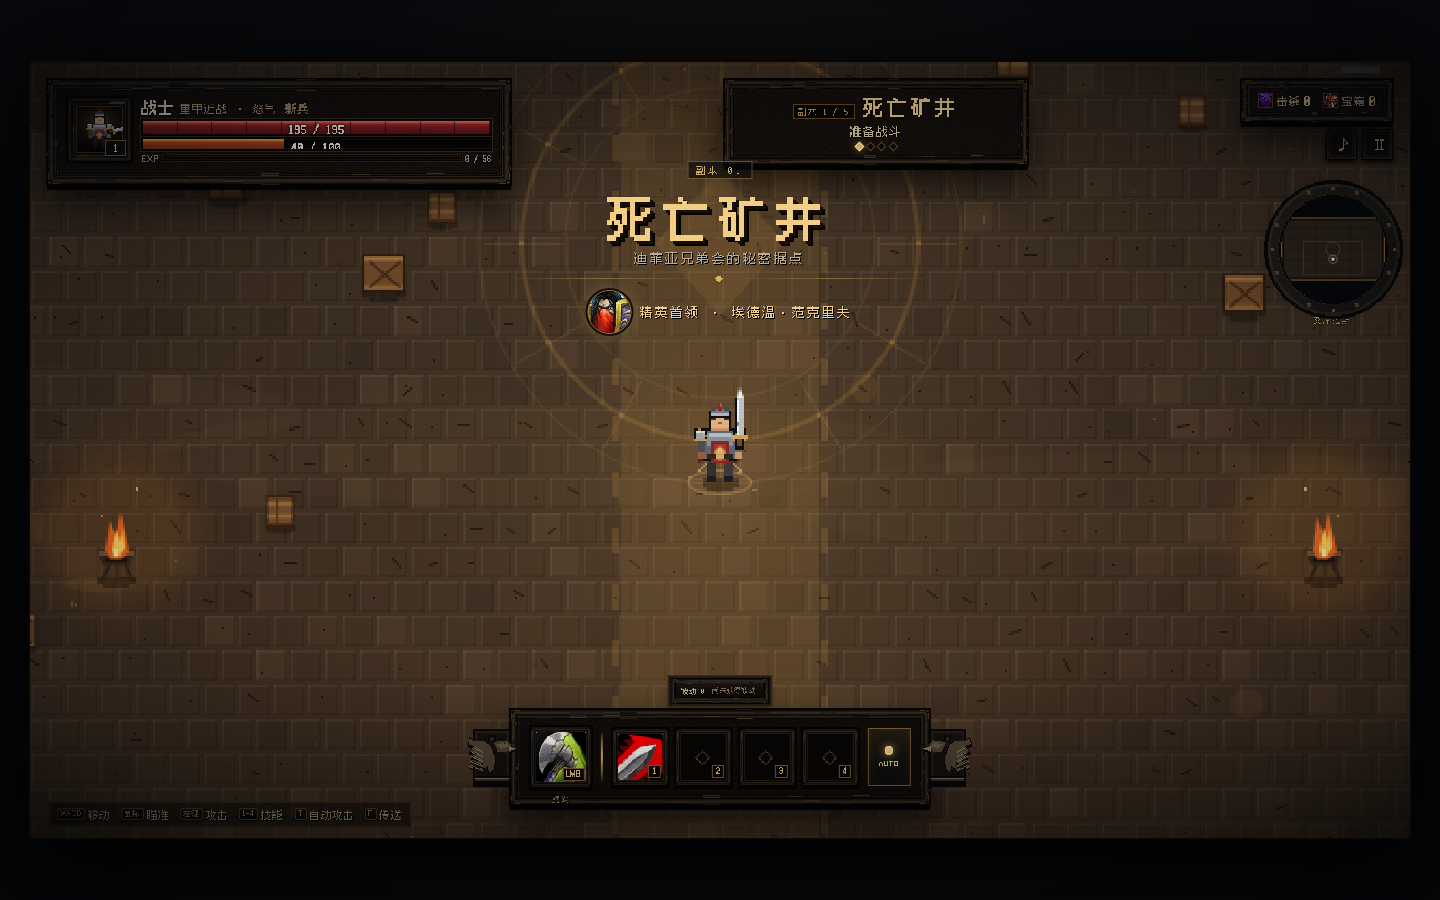
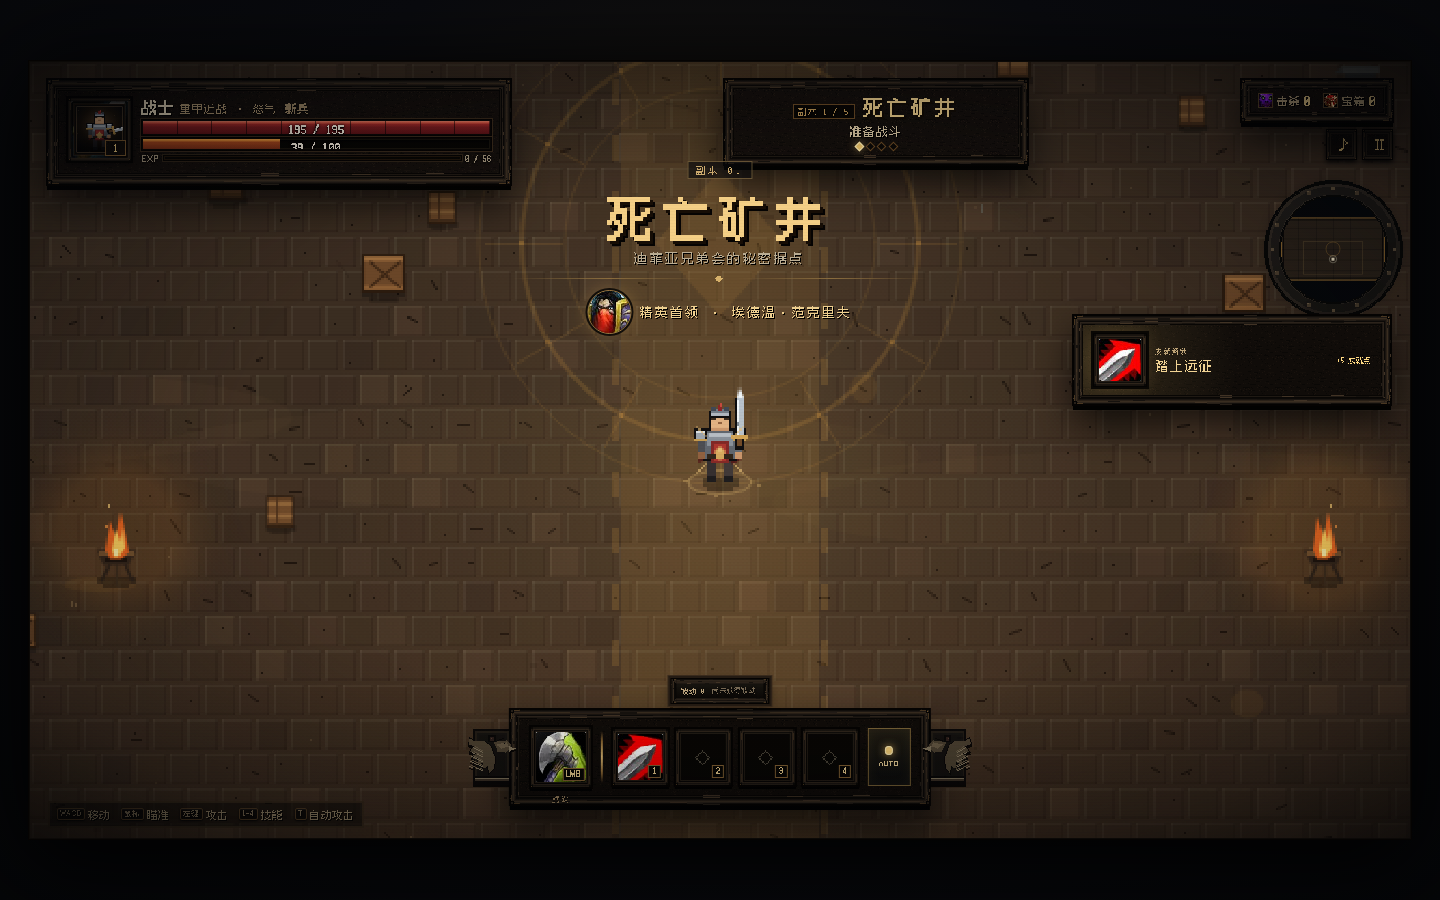
feat: auto-enter portals and remove F interaction

Changed region(s): [[0.7188, 0.3422, 0.9688, 0.4667], [0.25, 0.9022, 0.2812, 0.9333]]

diff --git a/src/game.js b/src/game.js
@@ -76,7 +76,6 @@
     minimap: $('minimap'),
     waveAnnounce: $('wave-announce'),
     toastLayer: $('toast-layer'),
-    interact: $('interact-prompt'), interactText: $('interact-text'),
     abilityBar: $('ability-bar'), basicSlot: $('basic-slot'), abilitySlots: $('ability-slots'),
     passiveBar: $('passive-bar'), passiveRow: $('passive-row'), passiveLabel: $('passive-label'),
     hint: document.querySelector('.hint-bar'),
@@ -299,7 +298,7 @@
 
   function onKeyDown(e) {
     const code = e.code;
-    if (['KeyW', 'KeyA', 'KeyS', 'KeyD', 'Space', 'KeyF', 'KeyT', 'Digit1', 'Digit2', 'Digit3', 'Digit4', 'Numpad1', 'Numpad2', 'Numpad3', 'Numpad4', 'Escape'].includes(code)) {
+    if (['KeyW', 'KeyA', 'KeyS', 'KeyD', 'Space', 'KeyT', 'Digit1', 'Digit2', 'Digit3', 'Digit4', 'Numpad1', 'Numpad2', 'Numpad3', 'Numpad4', 'Escape'].includes(code)) {
       if (!e.repeat) e.preventDefault();
     }
     if (window.Achievements && Achievements.isOpen()) {
@@ -346,7 +345,6 @@
     if (code === 'Digit3' || code === 'Numpad3') slot = 2;
     if (code === 'Digit4' || code === 'Numpad4') slot = 3;
     if (slot >= 0) { R.useAbility(slot); return; }
-    if (code === 'KeyF') R.interact();
   }
 
   R.updateMusicButton = function () {
@@ -787,14 +785,13 @@
     R.UI.bossPanel.classList.add('hidden');
     R.UI.endScreen.classList.remove('victory');
     R.rebuildAbilityBar();
-    R.hideInteract();
     R.startDungeon(0, true);
     R.updateHUD();
     if (window.Achievements) {
       Achievements.beginRun(classId);
       Achievements.refreshChrome();
     }
-    setTimeout(() => R.toast('提示：触碰宝箱自动开启；传送门按 F 进入', '', 'chest'), 3400);
+    setTimeout(() => R.toast('提示：触碰宝箱自动开启；走入传送门自动进入下一副本', '', 'chest'), 3400);
   };
 
   R.startDungeon = function (index, initial) {
@@ -891,7 +888,6 @@
     R.showStageBanner(dungeon);
     AudioEngine.setMood(index);
     if (!initial) R.toast('进入副本 · ' + dungeon.name, 'good');
-    R.hideInteract();
   };
 
   R.makeProps = function (dungeon, index) {
@@ -951,7 +947,24 @@
   };
 
   R.spawnPortal = function (x, y) {
-    R.game.portals.push({ x, y, timer: 0, seed: Math.random() * 10 });
+    const g = R.game;
+    const p = g.player;
+    // 传送门不要压在宝箱/玩家脚下：在附近找一个没有障碍物的落点。
+    const offsets = [
+      [0, -78], [78, 0], [-78, 0], [0, 78],
+      [58, -58], [-58, -58], [58, 58], [-58, 58]
+    ];
+    let sx = x;
+    let sy = y;
+    for (const [ox, oy] of offsets) {
+      const tx = Math.max(56, Math.min(g.worldW - 56, x + ox));
+      const ty = Math.max(70, Math.min(g.worldH - 56, y + oy));
+      if (R.propAt(tx, ty, 12)) continue;
+      sx = tx;
+      sy = ty;
+      if (!p || Math.hypot(sx - p.x, sy - p.y) >= 48) break;
+    }
+    g.portals.push({ x: sx, y: sy, timer: 0, seed: Math.random() * 10, armed: false });
   };
 
   R.enterPortal = function () {
@@ -961,17 +974,6 @@
     } else {
       R.startDungeon(g.stageIndex + 1, false);
       R.toast('深入裂隙 · 生命恢复 25%', 'good');
-    }
-  };
-
-  R.interact = function () {
-    const g = R.game;
-    if (g.mode !== 'playing') return;
-    const p = g.player;
-    // 宝箱由触碰自动开启；F 只处理传送门
-    for (const portal of g.portals) {
-      const d = Math.hypot(portal.x - p.x, portal.y - p.y);
-      if (d < 48) { AudioEngine.sfx('portal'); R.enterPortal(); return; }
     }
   };
 
@@ -1021,7 +1023,6 @@
     R.UI.endScreen.classList.add('hidden');
     R.UI.stageBanner.classList.remove('show');
     R.UI.title.classList.remove('hidden');
-    R.hideInteract();
     R.UI.tooltip.classList.add('hidden');
     R.input.mouse.down = false;
   };
@@ -1041,7 +1042,6 @@
     g.choiceContext = null;
     g.levelChoices = [];
     R.UI.pauseScreen.classList.add('hidden');
-    R.hideInteract();
     R.input.mouse.down = false;
     R.UI.endScreen.classList.toggle('victory', victory);
     R.UI.endKicker.textContent = victory ? 'EXPEDITION COMPLETE' : 'EXPEDITION ENDED';
@@ -1135,10 +1135,6 @@
 
   R.updateObjective = function (text) {
     if (R.UI.objective) R.UI.objective.textContent = text;
-  };
-
-  R.hideInteract = function () {
-    R.UI.interact.classList.add('hidden');
   };
 
   R.takeDamageFlash = function () {

diff --git a/styles.css b/styles.css
@@ -489,17 +489,6 @@ kbd {
 .auto-attack-btn:hover { border-color: #b0884b; }
 .auto-attack-btn:focus-visible { outline: 1px solid #d3a85e; outline-offset: 2px; }
 
-/* interact & prompts */
-.interact-prompt {
-  position: absolute; left: 50%; bottom: 9.1cqw; transform: translateX(-50%);
-  display: flex; align-items: center; gap: .55cqw;
-  padding: .4cqw .9cqw;
-  background: rgba(8, 10, 14, .9); border: 1px solid #80643a;
-  color: #f3e1b9; font-size: .82cqw; letter-spacing: .12em;
-  box-shadow: 0 0 24px rgba(219, 176, 96, .14), 0 6px 18px rgba(0,0,0,.5);
-  animation: promptPulse 1.8s ease-in-out infinite;
-}
-.interact-prompt kbd { color: #2a1b08; background: linear-gradient(#f3d391, #c99a4d); border-color: #f7e1ad; font-weight: 800; }
 .toast-layer {
   position: absolute; right: 1.35cqw; bottom: 10.4cqw;
   width: 22cqw; display: flex; flex-direction: column; align-items: flex-end; gap: .35cqw;
@@ -890,7 +879,6 @@ kbd {
   100% { opacity: 0; transform: translate(-50%, -.5cqw); }
 }
 @keyframes bossBarIn { from { opacity: 0; transform: translate(-50%, -1cqw); } to { opacity: 1; transform: translate(-50%, 0); } }
-@keyframes promptPulse { 0%, 100% { box-shadow: 0 0 18px rgba(219,176,96,.1), 0 6px 18px rgba(0,0,0,.5); } 50% { box-shadow: 0 0 30px rgba(219,176,96,.25), 0 6px 18px rgba(0,0,0,.5); } }
 @keyframes waveText {
   0% { opacity: 0; transform: translate(-50%, 0) scale(.94); filter: blur(5px); letter-spacing: .5em; }
   18% { opacity: 1; transform: translate(-50%, -1.1cqw) scale(1); filter: blur(0); letter-spacing: .35em; }

diff --git a/src/combat.js b/src/combat.js
@@ -89,7 +89,7 @@
     updateTexts(dt);
     updateCamera(dt);
     R.syncMouseWorld();
-    updateInteract();
+    updatePortal();
     R.updateHUD();
     if (R.updateBossUI) R.updateBossUI();
   };
@@ -2136,11 +2136,11 @@
     G().shake = Math.max(G().shake, n);
   };
 
-  function updateInteract() {
+  function updatePortal() {
     const g = G();
     const p = g.player;
     if (!p) return;
-    // 宝箱改为触碰自动开启，无需按 F
+    // 宝箱：触碰自动开启
     for (const c of g.chests) {
       if (c.opened) continue;
       if (Math.hypot(c.x - p.x, c.y - p.y) < 30) {
@@ -2148,18 +2148,18 @@
         return;
       }
     }
-    let text = null;
+    // 传送门：离开出生点后，走入范围自动进入
     for (const portal of g.portals) {
-      if (Math.hypot(portal.x - p.x, portal.y - p.y) < 55) {
-        text = g.stageIndex >= D.DUNGEONS.length - 1 ? '离开裂隙' : '进入下一副本';
-        break;
+      const d = Math.hypot(portal.x - p.x, portal.y - p.y);
+      if (!portal.armed) {
+        if (d > 50) portal.armed = true;
+        continue;
       }
-    }
-    if (text) {
-      R.UI.interactText.textContent = text;
-      R.UI.interact.classList.remove('hidden');
-    } else {
-      R.UI.interact.classList.add('hidden');
+      if (d < 34) {
+        AudioEngine.sfx('portal');
+        R.enterPortal();
+        return;
+      }
     }
   }
 

diff --git a/index.html b/index.html
@@ -112,10 +112,6 @@
         <div id="wave-announce" class="wave-announce"></div>
         <div id="toast-layer" class="toast-layer"></div>
 
-        <div id="interact-prompt" class="interact-prompt hidden">
-          <kbd>F</kbd><span id="interact-text">进入传送门</span>
-        </div>
-
         <div id="ability-bar" class="ability-bar" aria-label="技能栏">
           <div id="basic-slot" class="basic-slot"></div>
           <div class="ability-divider"></div>
@@ -136,7 +132,6 @@
           <span><kbd>左键</kbd> 攻击</span>
           <span><kbd>1-4</kbd> 技能</span>
           <span><kbd>T</kbd> 自动攻击</span>
-          <span><kbd>F</kbd> 传送</span>
         </div>
       </div>
 
@@ -280,7 +275,6 @@
             <span><kbd>WASD</kbd> 移动</span>
             <span><kbd>鼠标</kbd> 瞄准 / 攻击</span>
             <span><kbd>1-4</kbd> 职业技能</span>
-            <span><kbd>F</kbd> 进入传送门</span>
             <span><kbd>Esc</kbd> 暂停</span>
           </div>
 
@@ -327,7 +321,6 @@
             <span><kbd>WASD</kbd> 移动</span>
             <span><kbd>左键</kbd> 普通攻击</span>
             <span><kbd>1-4</kbd> 技能</span>
-            <span><kbd>F</kbd> 传送</span>
           </div>
         </div>
       </div>

diff --git a/README.md b/README.md
@@ -1,7 +1,7 @@
 # 艾泽拉斯：裂隙远征
 
 > 魔兽世界同人 · 像素风 · 动作肉鸽网页游戏  
-> **WARCRAFT: RIFT EXPEDITION** · v0.10.2  
+> **WARCRAFT: RIFT EXPEDITION** · v0.10.3  
 > 详细更新见 [CHANGELOG.md](CHANGELOG.md)
 
 ![标题界面](screenshots/title.png)
@@ -13,6 +13,13 @@
 > 想快速分享给朋友：直接用 `dist/` 或 `release/rift-expedition.zip`，部署步骤见 [DEPLOY.md](DEPLOY.md)。
 
 ---
+
+## v0.10.3 传送门自动进入
+
+- **彻底移除 F 键**：不再有交互键、交互提示框和常驻交互按钮。
+- **传送门自动触发**：首领宝箱选择完成后，传送门在宝箱附近的安全落点开启；玩家走入范围自动进入下一副本或离开裂隙。
+- **防误触**：传送门不会压在宝箱/玩家脚下；生成时会寻找附近无障碍落点，并保留短暂离开范围后的触发保护。
+- **提示同步**：移除标题、暂停和 HUD 中的 F 提示；新手提示改为“走入传送门自动进入下一副本”。
 
 ## v0.10.2 全局暗石 UI
 
@@ -122,7 +129,7 @@
 
 - **升级三选一队列化**：每次升级都会进入一次独立的三选一；连续升多级时逐次展示，不会因为状态切换而漏掉。升级界面明确标注「等级提升 · 三选一」，并显示还有几次升级待选择。
 - **触碰宝箱自动开启**：不再需要按 F。角色碰到宝箱即自动打开并进入战利品三选一；普通宝箱、首领宝箱都适用。
-- **F 只负责传送门**：当前副本清空后，靠近传送门按 F 进入下一层。
+- **传送门走入自动进入**：当前副本清空后，传送门会在首领宝箱附近开启；走入范围即自动进入下一层，不再需要按 F。
 - **提示文案同步**：标题操作提示、游戏内提示、开局 Toast 与 README 均已更新。
 
 ![升级三选一](screenshots/levelup.png)
@@ -415,7 +422,7 @@ screenshots/        预览截图
 
 ---
 
-## 已知范围（v0.10.2）
+## 已知范围（v0.10.3）
 
 - 面向桌面键鼠，暂未提供触屏虚拟摇杆。
 - 当前为 5 个线性副本，尚未加入分支路线、商店、遗物或随机词缀。

diff --git a/CHANGELOG.md b/CHANGELOG.md
@@ -1,5 +1,27 @@
 # 更新记录
 
+## v0.10.3 — 传送门自动进入
+
+### 交互
+
+- 彻底移除 `F` 键：删除 `KeyF` 输入、`R.interact`、交互提示 DOM/CSS 和 `hideInteract`。
+- 标题、暂停、HUD 提示不再显示 F。
+- 新手提示改为“触碰宝箱自动开启；走入传送门自动进入下一副本”。
+
+### 传送门
+
+- 传送门开启时在首领宝箱附近寻找无障碍落点，避免直接压在玩家脚下。
+- 玩家走入 34px 范围自动进入下一副本；最后一个副本则离开裂隙。
+- 增加 `armed` 状态：传送门需要在范围外完成激活，避免三选一关闭瞬间误触。
+- 传送门仍保留视觉提示、音效和关卡目标文本。
+
+### 验证
+
+- 自动传送门从生成到进入下一副本正常。
+- 宝箱触碰自动开启仍然正常。
+- 标题、战斗、三选一、暂停、结算 0 个 JS 异常。
+- 更新截图：`screenshots/gameplay.png`。
+
 ## v0.10.2 — 全局暗石 UI
 
 ### 全局
